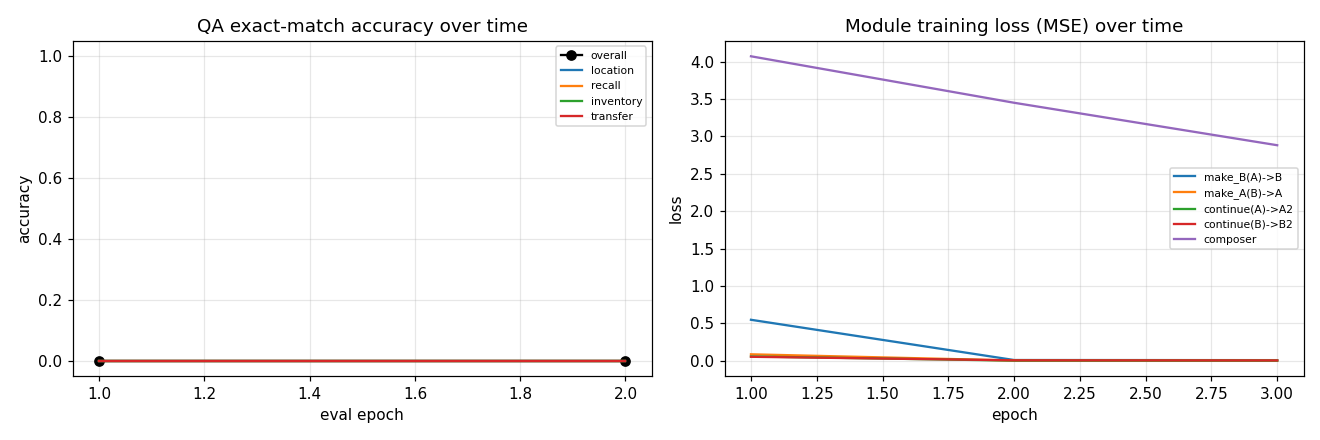
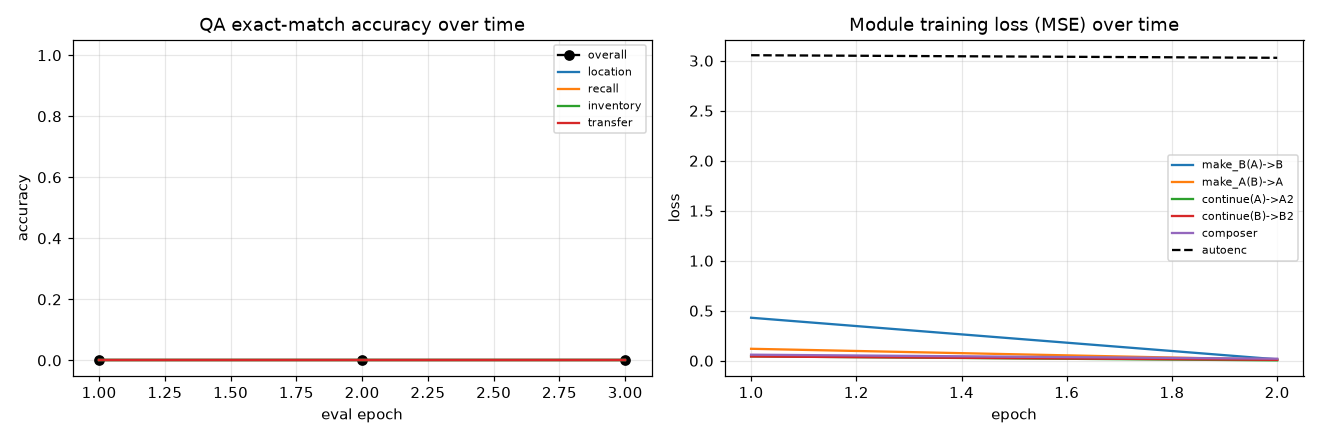
Cyclic curriculum: optimize representation, not the answer
User course-correction: the pieces train ONE shared latent state space via a
cyclic curriculum (toA->toB->contA->contB->answerWithFormatD), optimizing the
INTERNAL REPRESENTATION (latent-consistency/reconstruction/evolution), not the
answer string. The AnswerDecoder is a readout PROBE, never a loss term.

Changes to train_modules.py:
- train_composer: REPRESENTATION-ONLY loss = mse(D, D_target) (latent
  consistency: composed state == answer's own state). Removed the answer-CE
  that was optimizing for the answer (the v30-v33 mistake).
- New train_answer_probe: trains AnswerDecoder as a separate readout head on
  clean D_target + composer-noise injection, decoupled from the core model
  (no answer gradient reaches composer/transforms/autoencoder).
- New dump_validation_examples: prints expected | pipeline-gen | oracle-gen
  for 5 samples/task so we conclude from real cases, not just aggregates.
- main() restructured into CYCLES with plateau-based early stopping
  (--max_cycles/--cycle_epochs/--plateau_eps/--plateau_patience).
- Strengthened kaggle_ctl pre-flight to import train_modules (caught a missing
  import math that only surfaced on Kaggle).

Local --quick crash-check passes: cycles run, losses fall, plateau + dump work.

diff --git a/train_modules.py b/train_modules.py
@@ -53,7 +53,8 @@ from src.modules import (
 from src import diagnostics as diag
 
 QUICK = dict(d_state=48, n_samples=400, epochs=4, max_seq_len=192,
-             phase0_epochs=8, phase1_epochs=3, d_model=32, batch_size=32)
+             phase0_epochs=8, phase1_epochs=3, d_model=32, batch_size=32,
+             max_cycles=2, cycle_epochs=1, plateau_eps=0.05, plateau_patience=2)
 
 
 # ---------------------------------------------------------------------------
@@ -177,37 +178,16 @@ def train_composer(composer, ans_dec, dec, samples, encoder, opt, device, epochs
             B = encoder.state_of(_ids(s["answer"]).unsqueeze(0).to(device)).detach()
             C = encoder.state_of(_ids(s.get("question", "")).unsqueeze(0).to(device)).detach()
             D_target = encoder.state_of(_ids("Answer: " + s["answer"]).unsqueeze(0).to(device)).detach()
-            ans_ids = _ids(s["answer"]).to(device)
-            # Train the head to STOP: append EOS to the target. Without this the
-            # head never learns an end-of-answer signal, so greedy generation
-            # emits a full max_tokens garbage tail and exact-match oracle acc
-            # stays 0.00 (the real cause of the previous run's oracle failure).
-            eos_id = TOK.vocab[TOK.eos_token]
-            tgt_ids = torch.cat([ans_ids, torch.tensor([eos_id], device=device)])
             opt.zero_grad()
             D = composer(A, B, C)
-            mse = F.mse_loss(D, D_target)
-            # ROBUST-DECODE TRAINING (fixes v32's QA=0.000 brittleness):
-            # v32 trained the head ONLY on the clean teacher state D_target and
-            # hit oracle 0.50 but final QA 0.000 -- the head was so precise on
-            # the EXACT target that the composer's tiny (mse ~0.27) noise at
-            # inference broke it completely. v30 trained the head on the raw
-            # composer output but lost spaces (the composer starts random).
-            # Resolution: inject Gaussian noise into D_target at the composer's
-            # CURRENT error level (see D_train below), then train the head on
-            # that. The head sees a clean-ish signal (learns spaces/precise
-            # decoding) but is robust to exactly the noise it faces at inference.
-            # D_train is detached, so no head gradient leaks into the composer;
-            # the composer is still driven purely by the MSE term to reach
-            # D_target. As the composer improves (mse drops) the injected noise
-            # shrinks, so the head trains on progressively cleaner signal.
-            with torch.no_grad():
-                cur_mse = F.mse_loss(D, D_target).item()
-                noise_std = math.sqrt(cur_mse) + 1e-4
-                D_train = D_target + torch.randn_like(D_target) * noise_std
-            logits = ans_dec.forward_teacher(D_train, tgt_ids.unsqueeze(0))
-            ce = F.cross_entropy(logits.reshape(-1, logits.size(-1)), tgt_ids.reshape(-1))
-            loss = mse + ce
+            # REPRESENTATION-ONLY objective: latent consistency. The composed
+            # state D must equal the answer's OWN state (D_target). We do NOT
+            # optimize for the answer string (that would be next-token
+            # shortcutting -- the trap the whole project avoids). The
+            # AnswerDecoder is a SEPARATE readout PROBE (see train_answer_probe),
+            # never part of this loss. The core model is optimized purely for
+            # the internal representation; the answer is only *read out* later.
+            loss = F.mse_loss(D, D_target)
             loss.backward(); opt.step()
             tot += loss.item(); n += 1
         last = tot / max(n, 1)
@@ -217,6 +197,77 @@ def train_composer(composer, ans_dec, dec, samples, encoder, opt, device, epochs
         if qa_hook is not None and (ep % 3 == 0 or ep == epochs):
             qa_hook(ep)
     return last
+
+
+def train_answer_probe(ans_dec, composer, samples, encoder, opt, device, epochs):
+    """Readout PROBE (NOT a core loss). Train the AnswerDecoder to read the
+    answer from the teacher state D_target, with Gaussian noise injected at the
+    composer's CURRENT error level so the probe is robust to exactly the noise
+    it will face at inference (composer(A,B,C) ~ D_target + that noise).
+
+    This is deliberately decoupled from the core model: it never puts an answer
+    gradient into the composer / transforms / autoencoder. We optimize the
+    INTERNAL REPRESENTATION elsewhere; this head only learns to *read it out*.
+    """
+    ans_dec.train(); encoder.eval(); composer.eval()
+    eos = TOK.vocab[TOK.eos_token]
+    crit = nn.CrossEntropyLoss()
+    for ep in range(1, epochs + 1):
+        tot = 0; n = 0
+        for s in samples:
+            A = encoder.state_of(_ids(s["narrative"]).unsqueeze(0).to(device)).detach()
+            B = encoder.state_of(_ids(s["answer"]).unsqueeze(0).to(device)).detach()
+            C = encoder.state_of(_ids(s.get("question", "")).unsqueeze(0).to(device)).detach()
+            D_target = encoder.state_of(_ids("Answer: " + s["answer"]).unsqueeze(0).to(device)).detach()
+            D = composer(A, B, C).detach()
+            with torch.no_grad():
+                cur_mse = F.mse_loss(D, D_target).item()
+                noise_std = math.sqrt(cur_mse) + 1e-4
+                D_train = D_target + torch.randn_like(D_target) * noise_std
+            ans_ids = _ids(s["answer"]).to(device)
+            tgt = torch.cat([ans_ids, torch.tensor([eos], device=device)])
+            opt.zero_grad()
+            logits = ans_dec.forward_teacher(D_train, tgt.unsqueeze(0))
+            loss = crit(logits.reshape(-1, logits.size(-1)), tgt.reshape(-1))
+            loss.backward(); opt.step()
+            tot += loss.item(); n += 1
+        last = tot / max(n, 1)
+        print(f"  [answer_probe] ep {ep}/{epochs} ce={last:.4f}")
+    return last
+
+
+def dump_validation_examples(encoder, make_b, composer, ans_dec, dataset,
+                             tokenizer, device, n_per_task=4, max_new=48):
+    """Print expected vs generated (pipeline) vs oracle (clean state) for a few
+    validation samples per task, so we can CONCLUDE why it worked/failed from
+    real examples rather than only aggregate accuracy."""
+    eos = tokenizer.vocab[tokenizer.eos_token]
+    pad = tokenizer.vocab[tokenizer.pad_token]
+    rows = []
+    seen = {}
+    for s in dataset:
+        if not s.get("question"):
+            continue
+        t = s["task_type"]
+        if seen.get(t, 0) >= n_per_task:
+            continue
+        seen[t] = seen.get(t, 0) + 1
+        A_seq = encoder.states(_ids(s["narrative"]).unsqueeze(0).to(device)).detach()
+        C = encoder.state_of(_ids(s.get("question", "")).unsqueeze(0).to(device)).detach()
+        ids = compose_answer(encoder, make_b, composer, ans_dec, A_seq, C,
+                              max_tokens=max_new, eos_id=eos, pad_id=pad)
+        gen = tokenizer.decode(ids).strip().lower()
+        exp = s["answer"].strip().lower()
+        D_target = encoder.state_of(_ids("Answer: " + s["answer"]).unsqueeze(0).to(device)).detach()
+        oids = ans_dec.generate(D_target, max_tokens=max_new, eos_id=eos, pad_id=pad)
+        ogen = tokenizer.decode(oids).strip().lower()
+        rows.append((t, s.get("question", ""), exp, gen, ogen))
+    print("\n=== VALIDATION EXAMPLES (expected | pipeline-gen | oracle-gen) ===")
+    for t, q, exp, gen, ogen in rows:
+        tag = "OK" if gen == exp else ("oracleOK" if ogen == exp else "X")
+        print(f"  [{t}] Q: {q}")
+        print(f"       exp={exp!r}  gen={gen!r}  oracle={ogen!r}  [{tag}]")
+    return rows
 
 
 # continue(): train on consecutive encoder states. NOTE: optimizer must be
@@ -301,6 +352,15 @@ def main():
     ap.add_argument("--epochs", type=int, default=25)
     ap.add_argument("--phase0_epochs", type=int, default=15)
     ap.add_argument("--phase1_epochs", type=int, default=25)
+    # Cyclic curriculum: one CYCLE = (toA -> toB -> contA -> contB ->
+    # answerWithFormatD). Repeated until ALL step-losses in a cycle plateau.
+    ap.add_argument("--max_cycles", type=int, default=25)
+    ap.add_argument("--cycle_epochs", type=int, default=3,
+                    help="epochs per phase per cycle")
+    ap.add_argument("--plateau_eps", type=float, default=0.01,
+                    help="max per-step loss change across cycles to count as plateau")
+    ap.add_argument("--plateau_patience", type=int, default=3,
+                    help="consecutive plateaued cycles before early-stop")
     ap.add_argument("--n_samples", type=int, default=5000)
     ap.add_argument("--d_state", type=int, default=256)
     ap.add_argument("--d_model", type=int, default=128)
@@ -377,8 +437,14 @@ def main():
         rec = decoder(encoder.states(x)).argmax(-1)[0]
         print("  sample reconstruction:", TOK.decode(rec.tolist())[:80])
 
-    # ---- Phase 1: latent algebra, each piece separate ----
-    print("STAGE: phase1 latent algebra")
+    # ---- Phase 1: latent algebra, CYCLIC curriculum ----
+    # ONE CYCLE = (toA -> toB -> contA -> contB -> answerWithFormatD). The
+    # regiment keeps conversion (toB), continuation (contA/contB) and inference
+    # (answerWithFormatD) balanced and optimizes the INTERNAL REPRESENTATION --
+    # NOT the answer string. The AnswerDecoder is a readout PROBE (trained
+    # separately, never part of the core loss). Repeat cycles until ALL
+    # step-losses plateau (change < plateau_eps across consecutive cycles).
+    print("STAGE: phase1 cyclic latent algebra")
     qa_samples = [s for s in dataset[int(0.8 * len(dataset)):] if s.get("question")]
 
     # QA hook: evaluated periodically during composer training so we get a
@@ -394,19 +460,62 @@ def main():
         print(f"  STAGE: qa ep={ep} acc={acc:.3f} " +
               " ".join(f"{t}={a:.2f}" for t, a in task_acc.items()))
 
-    train_make_b_attn(make_b, qa_samples, encoder,
-                      torch.optim.AdamW(make_b.parameters(), lr=3e-4),
-                      device, args.phase1_epochs, hist)
-    train_state_map(make_a, lambda A, B, C: B, lambda A, B, C: A, qa_samples,
-                    encoder, torch.optim.AdamW(make_a.parameters(), lr=3e-4),
-                    device, args.phase1_epochs, "make_A(B)->A", hist)
-    train_cont(cont_a, qa_samples, encoder, device, args.phase1_epochs, "continue(A)->A2",
-               "narrative", hist)
-    train_cont(cont_b, qa_samples, encoder, device, args.phase1_epochs, "continue(B)->B2",
-               "answer", hist)
-    train_composer(composer, ans_dec, decoder, qa_samples, encoder,
-                   torch.optim.AdamW(list(composer.parameters()) + list(ans_dec.parameters()), lr=3e-4),
-                   device, args.phase1_epochs, hist, qa_hook=qa_hook)
+    # Persisted optimizers -- one shared model, refined every cycle.
+    ae_opt = torch.optim.AdamW(list(encoder.parameters()) + list(decoder.parameters()), lr=3e-4)
+    makeb_opt = torch.optim.AdamW(make_b.parameters(), lr=3e-4)
+    makea_opt = torch.optim.AdamW(make_a.parameters(), lr=3e-4)
+    cont_a_opt = torch.optim.AdamW(cont_a.parameters(), lr=3e-4)
+    cont_b_opt = torch.optim.AdamW(cont_b.parameters(), lr=3e-4)
+    comp_opt = torch.optim.AdamW(composer.parameters(), lr=3e-4)
+    probe_opt = torch.optim.AdamW(ans_dec.parameters(), lr=3e-4)
+
+    cycle_losses = []   # list of dicts: {step: loss}
+    patience = 0
+    for cyc in range(1, args.max_cycles + 1):
+        print(f"\n##### CYCLE {cyc}/{args.max_cycles} #####")
+        # toA: nudge the shared state space (no-op once foundation < threshold)
+        ae_loss = train_autoencoder(encoder, decoder, train_loader, ae_opt,
+                                    device, args.cycle_epochs, hist)
+        # toB: answer state from narrative + question (conversion)
+        makeb_loss = train_make_b_attn(make_b, qa_samples, encoder, makeb_opt,
+                                       device, args.cycle_epochs, hist)
+        # make_A(B)->A
+        makea_loss = train_state_map(make_a, lambda A, B, C: B, lambda A, B, C: A,
+                                     qa_samples, encoder, makea_opt, device,
+                                     args.cycle_epochs, "make_A(B)->A", hist)
+        # contA: continue narrative state
+        cont_a_loss = train_cont(cont_a, qa_samples, encoder, device,
+                                 args.cycle_epochs, "continue(A)->A2", "narrative", hist)
+        # contB: continue answer state
+        cont_b_loss = train_cont(cont_b, qa_samples, encoder, device,
+                                 args.cycle_epochs, "continue(B)->B2", "answer", hist)
+        # answerWithFormatD: compose D (latent consistency only)
+        comp_loss = train_composer(composer, ans_dec, decoder, qa_samples, encoder,
+                                   comp_opt, device, args.cycle_epochs, hist, qa_hook=qa_hook)
+        # probe: readout head trained on clean teacher state (validation only)
+        probe_loss = train_answer_probe(ans_dec, composer, qa_samples, encoder,
+                                        probe_opt, device, args.cycle_epochs)
+        cyc_loss = {"toA": ae_loss, "toB": makeb_loss, "makeA": makea_loss,
+                    "contA": cont_a_loss, "contB": cont_b_loss,
+                    "answerD": comp_loss, "probe": probe_loss}
+        cycle_losses.append(cyc_loss)
+        print("STAGE: cycle " + " ".join(f"{k}={v:.4f}" for k, v in cyc_loss.items()))
+        # Plateau: stop when ALL step-losses change < eps vs the previous cycle.
+        if len(cycle_losses) >= 2:
+            prev = cycle_losses[-2]
+            max_delta = max(abs(cyc_loss[k] - prev[k]) for k in cyc_loss)
+            if max_delta < args.plateau_eps:
+                patience += 1
+            else:
+                patience = 0
+            print(f"STAGE: plateau max_delta={max_delta:.4f} patience={patience}/{args.plateau_patience}")
+            if patience >= args.plateau_patience:
+                print(f"STAGE: early-stop: all cycle losses plateaued after {cyc} cycles")
+                break
+
+    # Validation examples (conclude from real samples, not just aggregates).
+    dump_validation_examples(encoder, make_b, composer, ans_dec, qa_samples,
+                             TOK, device, n_per_task=5)
 
     # ---- Final eval + isolation diagnostics ----
     print("STAGE: eval")

diff --git a/PROGRESS.md b/PROGRESS.md
@@ -570,4 +570,39 @@ is robust to exactly the noise it faces at inference. As the composer improves
 signal. Composer still driven by MSE only. Expect oracle to stay ~0.4-0.5 AND
 final QA to finally climb above 0.043 (and ideally past the 0.064 baseline).
 
+### 2026-07-12 (course-correction) — train the REPRESENTATION, not the answer
+
+User clarified the architecture's actual training regime, which I had drifted
+away from by putting an answer-CE into the composer loss:
+
+1. **One shared model.** toA/toB/contA/contB/answerWithFormatD all refine the
+   SAME latent state space (the encoder's `d_state`); they are not separate
+   models. The autoencoder builds the space; the transforms/thinking refine it.
+2. **Optimize the internal representation, NOT the answer.** The objectives are
+   latent-consistency / reconstruction / state-evolution (JEPA-style). The
+   `AnswerDecoder` is a *readout probe* used only to validate, never a loss
+   term. My v30-v33 mistake was optimizing the head on the answer string.
+3. **Cyclic curriculum.** A CYCLE = (toA -> toB -> contA -> contB ->
+   answerWithFormatD). Repeat cycles; stop when ALL step-losses in a cycle
+   plateau (change < eps across consecutive cycles). This keeps conversion
+   (toB), continuation (contA/contB) and inference (answerWithFormatD) balanced.
+4. **Conclude from validation examples**, not just aggregate accuracy.
+
+**Implemented in train_modules.py (pending Kaggle run):**
+- `train_composer` is now REPRESENTATION-ONLY: `loss = mse(D, D_target)`
+  (latent consistency — composed state == answer's own state). No answer CE.
+- New `train_answer_probe`: trains the `AnswerDecoder` as a separate readout
+  head on clean `D_target` + composer-noise injection (so it's a *fair* readout
+  of the noisy composed state), decoupled from the core model (no answer
+  gradient reaches the composer/transforms/autoencoder).
+- New `dump_validation_examples`: prints expected | pipeline-gen | oracle-gen
+  for 5 samples per task so we can read real cases and conclude.
+- `main()` restructured into CYCLES with plateau-based early stopping
+  (`--max_cycles/--cycle_epochs/--plateau_eps/--plateau_patience`).
+- Strengthened `kaggle_ctl` pre-flight to `import train_modules` (caught a
+  missing `import math` that had slipped only to Kaggle).
+- Local `--quick` crash-check passes: cycles run, losses fall, plateau logic
+  and example dump work. (Tiny 48-dim quick run produces garbage output —
+  expected; not a measurement.)
+
 